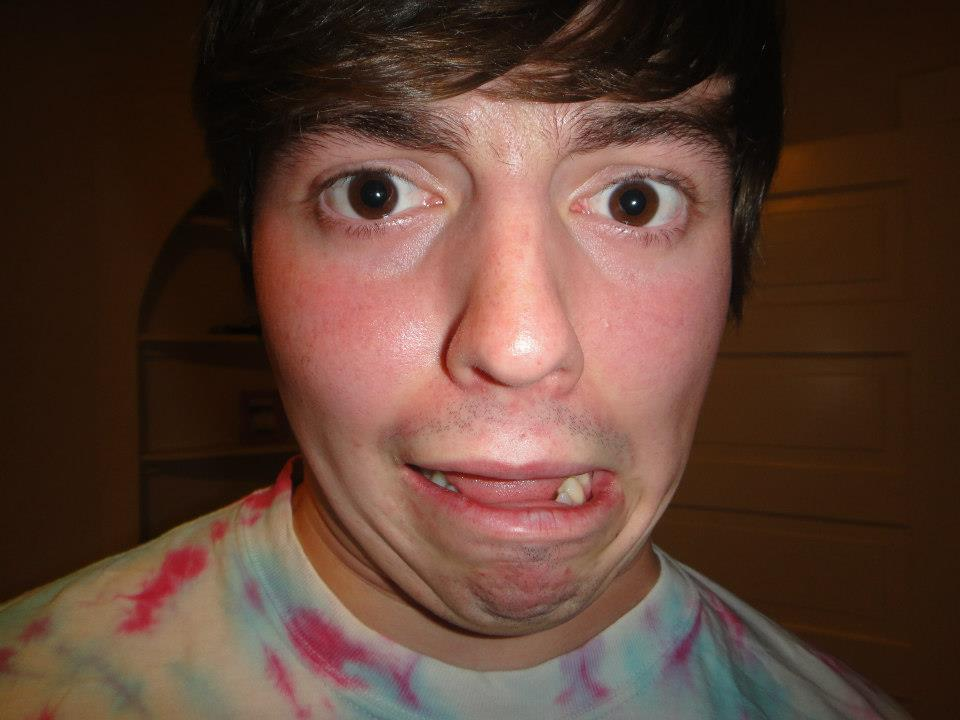
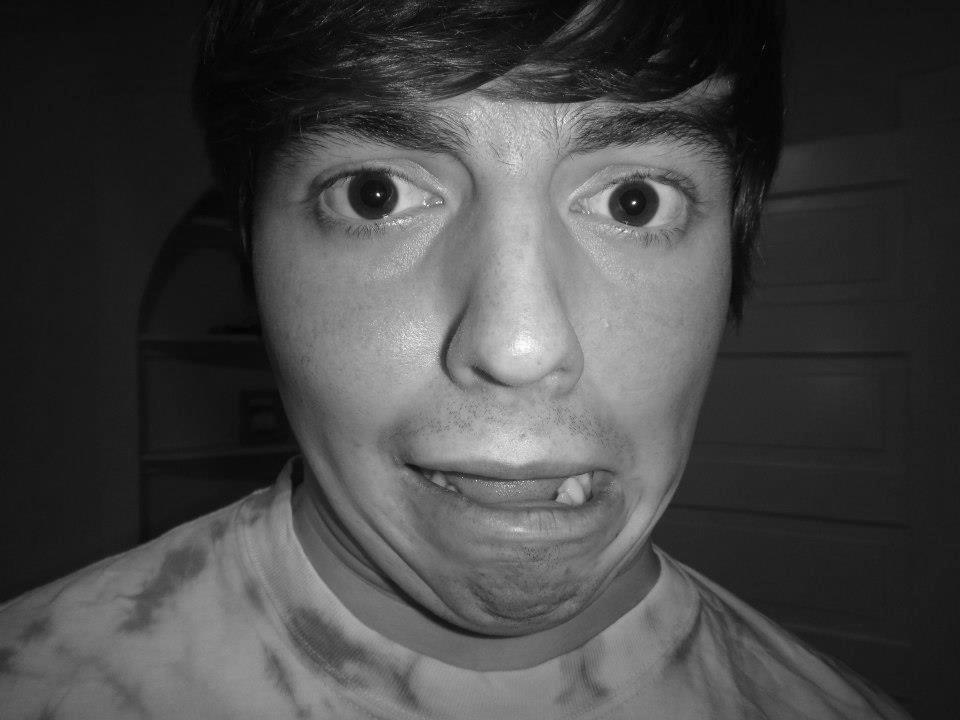
changed background photo and color schema

diff --git a/templates/landing_page.html b/templates/landing_page.html
@@ -96,6 +96,8 @@
     </div>
     -->
 </div>
+
+<!--
 <div class="bg-color normal-text">
     <div class="secondary-structure">
         <div class="bold-tag-line">We build easy-to-use automated scheduling software that keeps managers and employees happy.</div>
@@ -142,7 +144,7 @@
             </p>
         </div>
 
-        <!--
+
         <div class="icon">
             <img src="static/select_schedule.png" class="icon-img">
         </div>
@@ -155,19 +157,19 @@
         <div class="icon">
             <img src="static/create_schedule.png" class="icon-img">
         </div>
-        -->
 
-        <!--
+
+
         <div class="left-arrow">
             <img class="left-arrow-img" src="static/arrow_left.png">
         </div>
         <div class="title">4 easy steps.</div>
-        -->
+
 
 
     </div>
 
-    <!--
+
     <div class="bg-color-two">
     <div class="structure">
         <div class="splash-text far-left">"I was happy with the software, but even happier with Abel's looks."</div>
@@ -176,8 +178,10 @@
         <div class="splash-text right">Automatically create schedules you and your team will love in a single click.</div>
         <div class="splash-text far-right">"Mosaic Scheduling is the bomb. Abel Romer: so handsome!"</div>
     </div>
-    -->
+
 </div>
+-->
+
 <div class="review-block">
     <div class="user-review">
         <div class="review-spacer"></div>

diff --git a/static/landing_page.css b/static/landing_page.css
@@ -70,9 +70,9 @@ body, html {
 }
 
 .opaque {
-    grid-column: 2 / 8;
+    grid-column: 2 / 7;
     grid-row: 3 / 7;
-    background: #000;
+    background: #f1ead1;
     opacity: 0.8;
     border-radius: 3px;
     z-index: 1;
@@ -84,10 +84,10 @@ body, html {
 .blurred-background {
     display: block;
     z-index: 0;
-    filter: blur(2px);
+    filter: blur(0px);
     width: 100%;
     height: 100%;
-    background-image: url('storefront_orig.jpg');
+    background-image: url('DSC02067.jpg');
     background-size: 100%;
     background-position: 3%;
 }
@@ -101,7 +101,7 @@ body, html {
 }
 
 .bg-image {
-    background-image: url("storefront_orig.jpg");
+    background-image: url("DSC02067.jpg");
     height: 68%;
     background-position: center;
     background-repeat: no-repeat;
@@ -337,7 +337,7 @@ body, html {
 }
 
 .bullet-points {
-    grid-column: 2 / 6;
+    grid-column: 2 / 5;
     grid-row: 3 / 7;
     z-index: 2;
     font-size: 20px;
@@ -347,6 +347,7 @@ body, html {
 
 .features-list {
     list-style-image: url("star.png");
+    color: #333741;
 }
 
 .feature-item {
@@ -363,7 +364,7 @@ body, html {
 }
 
 .signup-form {
-    grid-column: 6 / 8;
+    grid-column: 5 / 7;
     grid-row: 3 / 7;
     display: grid;
     justify-items: center;
